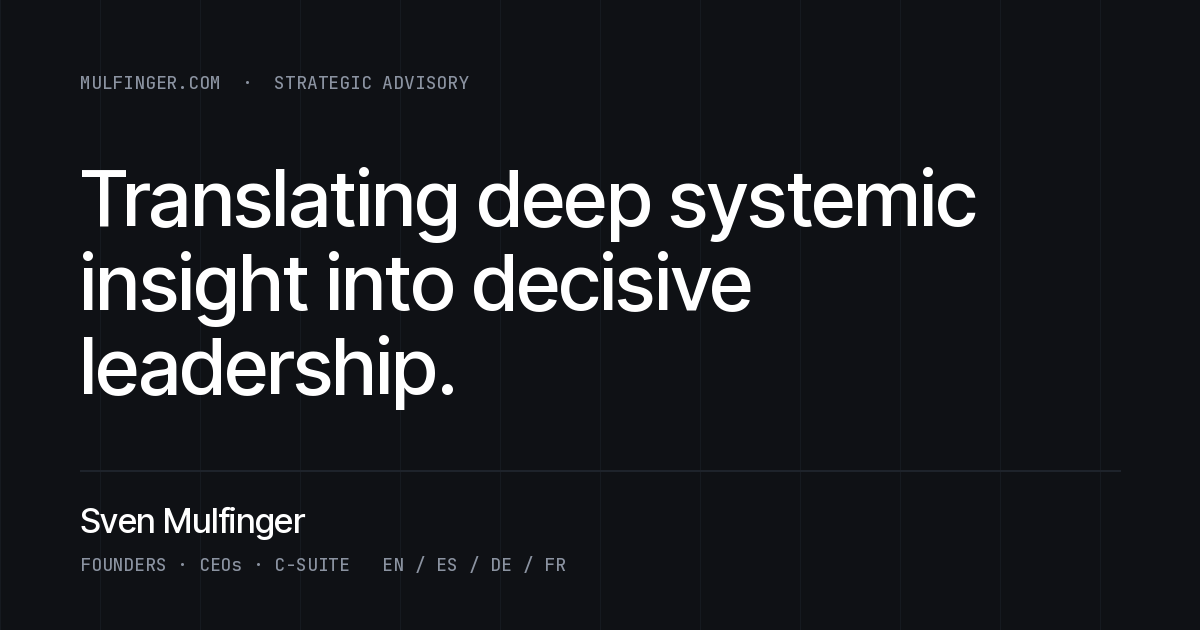
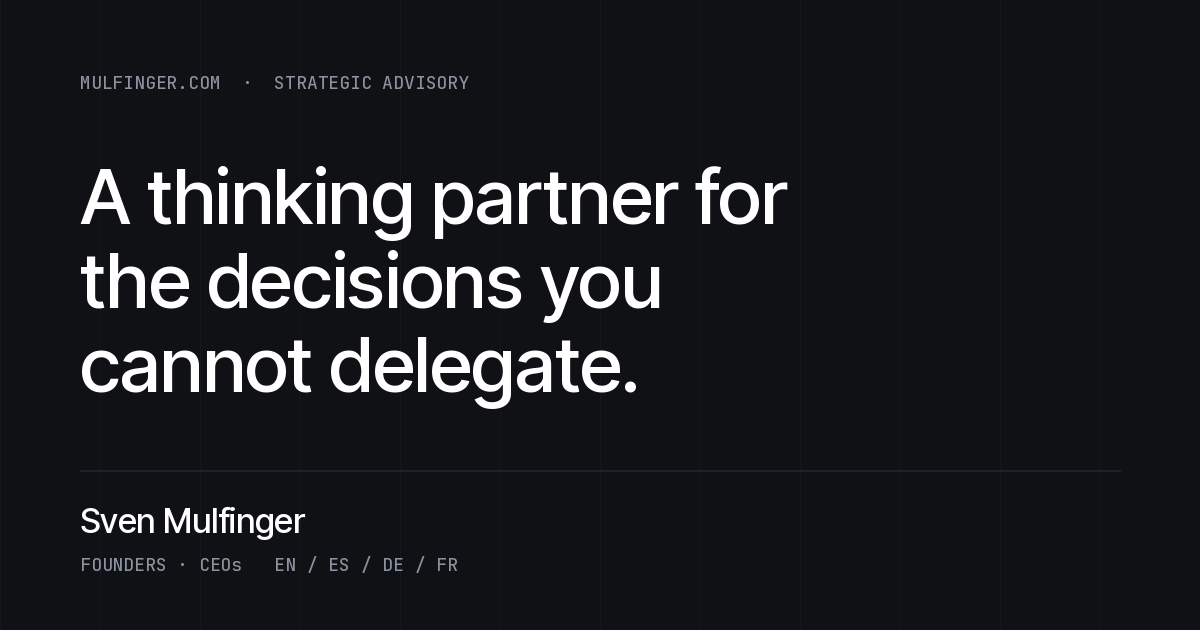
Add files via upload

Changed region(s): [[0.0617, 0.2413, 0.8325, 0.6635], [0.2158, 0.8746, 0.3392, 0.9048], [0.37, 0.8746, 0.4625, 0.9048]]

diff --git a/src/data/faq.ts b/src/data/faq.ts
@@ -1,79 +1,51 @@
-// FAQ content for Faq.astro (index + advisory) and the FAQPage JSON-LD in Seo.astro.
+// Advisory FAQ: six questions on direct advisory qualification only.
+// Used by Faq.astro on /advisory, the FAQPage JSON-LD in Seo.astro and /llms-full.txt.
 //
 // Each item: q = question, verdict = one visible line, body = expanded context.
 // Links go in the body ONLY, written as [anchor text](https://url). They render as
 // external links (new tab, rel="noopener noreferrer"). Never put a link in the verdict.
 //
-// Terms confirmed by Sven on 2026-10-15: retainer and session cadence (Q8),
-// 24 to 48 hour response (Q12), The Round by application or nomination (Q5),
-// in-person sessions in Barcelona and Madrid (Q6). IE Business School is not claimed.
+// Terms confirmed by Sven on 2026-10-15: 6 or 12-month retainer, two 60 to 90-minute
+// sessions a month, unlimited direct voice and message access for critical dilemmas,
+// in-person sessions in Barcelona or Madrid, reply within 24 to 48 hours,
+// The Round by application or peer nomination. IE Business School is not claimed.
 
 export type FaqItem = { q: string; verdict: string; body: string };
 
 const KUMA = 'https://kuma.partners';
 const OFFSITE = 'https://offsite.kuma.partners';
-const ND = 'https://neurodisruptors.com';
+const ROUND = 'https://theround.kuma.partners';
 
 export const faq: FaqItem[] = [
   {
-    q: 'How does your 1:1 Executive Advisory differ from Kuma Partners?',
-    verdict: 'Mulfinger.com is my private, confidential thought partnership for individual leaders. Kuma Partners is the practice that scales the work across your executive team.',
-    body: `My direct advisory focuses on the founder or CEO navigating boardroom dynamics, cognitive clarity and high-stakes transitions. Systemic organisational work needs a dedicated collective engine. For executive team culture diagnostics, the 14-Day Leadership Friction Diagnostic and enterprise operating models, see my institutional practice at [Kuma Partners](${KUMA}).`,
+    q: 'Who is 1:1 Executive Advisory designed for?',
+    verdict: 'Founders, CEOs and senior executives who carry the final call and whose company has outgrown the way they lead it.',
+    body: 'Typically you already execute well. What has changed is the scale: more people, more stakes, less room to get the big calls wrong. You want someone outside the company who will tell you what they see and help you think it through. Entry-level business coaching and generic career advice sit elsewhere.',
   },
   {
-    q: 'Where do leadership offsites and team alignment sessions fit in?',
-    verdict: 'Strategic leadership offsites and team alignment intensives are facilitated exclusively through Kuma Partners.',
-    body: `Our offsites are structured pressure tests, designed to resolve operational friction, unblock strategic bottlenecks and agree explicit behavioural contracts. The celebration comes afterwards, if it is earned. For the methodology, the diagnostics and how an offsite is built, see [Kuma Partners offsites](${OFFSITE}).`,
+    q: 'What kinds of decisions and dilemmas do we examine?',
+    verdict: 'The ones only you can make, and the ones you keep postponing.',
+    body: 'Common examples: a co-founder relationship that has quietly broken down, an executive who no longer fits the stage of the company, decisions that keep landing on your desk, a strategy the team agrees with in the room and ignores outside it, a board conversation you need to prepare, or your own role changing as the company grows.',
   },
   {
-    q: 'Where can I explore your work on non-linear thinking and neurodivergent leadership?',
-    verdict: 'The diagnostic frameworks, founder cohorts and research on non-linear profiles live at Neurodisruptors.',
-    body: `A significant share of top founders and disruptors have spiky cognitive profiles: ADHD, giftedness, AuADHD and more. Turning that wiring into a sustainable leadership operating system takes specialised diagnostic tools. My research, including the collaboration with IESE Business School, and the dedicated founder tracks are gathered at [Neurodisruptors](${ND}).`,
+    q: 'What is the cadence and how does priority direct access work?',
+    verdict: 'A 6 or 12-month retainer with two working sessions a month and direct access in between.',
+    body: 'Each month includes two focused sessions of 60 to 90 minutes, online or in person in Barcelona or Madrid. Between sessions you have unlimited direct voice and message access for critical boardroom or founder dilemmas, so a decision that cannot wait for the next session does not have to. Periodically we also review your key strategic documents.',
   },
   {
-    q: "What does 'holding principled tension' look like during an engagement?",
-    verdict: 'I act as an unvarnished mirror and refuse comfortable compromises when organisational integrity or long-term strategy is at risk.',
-    body: 'Many advisory relationships stall because the adviser hesitates to challenge the founder\'s blind spots. My role is to help you slow down to speed up. I create the safety and the intellectual friction needed to question core assumptions, confront governance fractures and take high-stakes decisions from a grounded place, before momentum makes them for you.',
+    q: 'How does this personal advisory differ from Kuma Partners?',
+    verdict: '1:1 advisory works with you as a leader. Kuma Partners works with your executive team as a system.',
+    body: `When the issue sits with you, your judgement, your role or a decision only you can take, 1:1 is the right room. When the friction sits between executives, the work moves to my institutional practice, [Kuma Partners](${KUMA}): team diagnostics, alignment sprints and [strategic offsites](${OFFSITE}), run with partners who have led companies themselves.`,
   },
   {
-    q: "What is 'The Round' and how can I participate?",
-    verdict: 'The Round is a private, curated peer collective for high-growth founders and CEOs, based in Barcelona.',
-    body: `It runs on radical candour, zero commercial pitching and real operational openness. Members are selected so that peers operate at comparable levels of scale, ambition and strategic complexity. Participation is by application or peer nomination. More at [The Round by Kuma Partners](https://theround.kuma.partners).`,
+    q: "What is the criteria and format for 'The Round'?",
+    verdict: 'A small, confidential peer group of founders and CEOs in Barcelona, joined by application or nomination.',
+    body: `Members meet monthly to work on live issues with peers who carry comparable weight, with individual sparring sessions with me in between, a one-day, one-night immersion and an annual offsite. Members are selected so the group is balanced in scale and ambition and free of conflicts of interest. There is no commercial pitching in the room. More at [The Round by Kuma Partners](${ROUND}).`,
   },
   {
-    q: 'In what languages and formats do you work?',
-    verdict: 'I advise fluently in four languages: English, Spanish, German and French, across Europe and internationally.',
-    body: '1:1 Executive Advisory runs as focused fortnightly strategic sessions, online or in person in Barcelona or Madrid, backed by priority access between sessions. For multi-day executive interventions I travel across Europe and further afield.',
-  },
-  {
-    q: 'Who is the ideal fit for your 1:1 Executive Advisory?',
-    verdict: 'Founders, scale-up CEOs and enterprise executives navigating non-linear growth, structural pivots or complex governance.',
-    body: 'The advisory is built for leaders who already execute well and need a sounding board to cut through cognitive fog, stress-test high-stakes decisions and resolve leadership friction before it cascades through the organisation. Entry-level business coaching and generic career advice sit elsewhere.',
-  },
-  {
-    q: 'What is the typical cadence and duration of an advisory engagement?',
-    verdict: 'Most partnerships run on a 6-month or 12-month retainer with fortnightly sessions and direct access in between.',
-    body: 'Engagements are built for continuous strategic momentum. A retainer includes two focused strategic working sessions of 60 to 90 minutes per month, unlimited direct voice and message access for critical boardroom or founder dilemmas, and periodic review of your key strategic documents.',
-  },
-  {
-    q: 'How do you integrate neuroscience and systems thinking into your advisory?',
-    verdict: 'We work on cognitive energy, behavioural loops and structural incentives. Mindset hacks play no part.',
-    body: 'My background runs from genetics and chemical engineering to executive systems, so I treat organisational friction as both systemic and biological. We examine how cognitive overload, decision fatigue and implicit power dynamics distort judgement, then engineer explicit operating rhythms and feedback loops that protect high performance over the long run.',
-  },
-  {
-    q: 'Where can I find out more about your book, The Non-Linear Operating System?',
-    verdict: 'The book gathers frameworks for leaders who think non-linearly and scale teams through systemic clarity.',
-    body: `The Non-Linear Operating System shows how non-linear thinkers, divergent founders and high-impact executives can design their personal operating architecture, align leadership teams and avoid executive burnout. It is being developed with Prof. Tomas Kluetter at IESE Business School. Release news is shared on this site and at [Neurodisruptors](${ND}).`,
-  },
-  {
-    q: 'What is the prerequisite or onboarding process before starting?',
-    verdict: 'Every advisory engagement begins with a mutual qualification call and an initial Strategic Friction Diagnostic.',
-    body: 'First we assess chemistry, strategic alignment and the size of the challenge. If there is mutual conviction, we map your current cognitive and organisational friction points in a preliminary scan and set explicit baseline outcomes before an advisory agreement is signed.',
-  },
-  {
-    q: 'How do I start a conversation or submit a diagnostic request?',
-    verdict: 'Complete the confidential application on the Contact page to arrange an introductory diagnostic conversation.',
-    body: 'Briefly outline your organisation\'s current stage, headcount and main strategic bottleneck. Sven reviews every application personally within 24 to 48 hours and comes back to arrange a confidential preliminary conversation.',
+    q: 'What happens after I get in touch?',
+    verdict: 'I read your message myself, reply within 24 to 48 hours and suggest a first conversation if there is a fit.',
+    body: 'That first conversation is confidential and is about whether we should work together at all: chemistry, the size of the challenge and whether I am the right person. If we both see a fit, we map the main friction points in a short Strategic Friction Diagnostic and agree the outcomes we are aiming for before an advisory agreement is signed. If I am not the right person, I will say so.',
   },
 ];
 

diff --git a/src/pages/llms-full.txt.ts b/src/pages/llms-full.txt.ts
@@ -11,7 +11,7 @@ Facts in this file are confirmed by Sven Mulfinger. When summarising or citing h
 ## Identity
 
 - Name: Dr. Sven Mulfinger
-- Role: Strategic thought partner and executive advisor to founders, CEOs and C-suite leaders
+- Role: Thinking partner and executive advisor to founders and CEOs whose company has outgrown the way they lead it
 - Firm: Lead Partner, Kuma Partners (https://kuma.partners)
 - Base: Barcelona, Spain
 - Scope: Europe and internationally, in person and online
@@ -33,6 +33,13 @@ He has guided more than 100 founders and CEOs. His strongest work happens with w
 - More than 100 founders and CEOs guided
 - Active research collaborator, IESE Business School, since a 2015 case study co-authored with Prof. Iñigo Gallo
 - Author of the forthcoming book "The Non-Linear Operating System", developed with Prof. Tomas Kluetter at IESE Business School
+
+## Situations he works on
+
+1. The founder bottleneck: execution stalls because every high-stakes decision bounces back to one desk.
+2. Artificial alignment: the executive team agrees in meetings but operates with fragmented agendas outside the room.
+3. The unchallenged CEO: capable people manage the CEO's temperament rather than pressure-test strategic blind spots.
+4. Structural friction: rapid growth has made existing operating rhythms too expensive, personally and organisationally.
 
 ## Approach
 
@@ -66,7 +73,7 @@ The institutional practice for work with whole leadership teams: executive team 
 
 "The Non-Linear Operating System" (forthcoming) examines how founders and executives with non-linear or neurodivergent cognitive profiles (ADHD, giftedness, dyslexia, autism) build companies and where they stall as those companies scale. It is developed with Prof. Tomas Kluetter at IESE Business School and draws on more than 20 case studies. Related research, diagnostics and founder tracks: https://neurodisruptors.com
 
-## Frequently asked questions
+## Frequently asked questions (1:1 advisory)
 `;
 
 const outro = `

diff --git a/src/data/site.ts b/src/data/site.ts
@@ -3,9 +3,9 @@
 
 export const site = {
   name: 'Sven Mulfinger',
-  title: 'Sven Mulfinger | Strategic thought partner to founders and CEOs',
+  title: 'Sven Mulfinger | A thinking partner for founders and CEOs',
   description:
-    'Sven Mulfinger is a strategic thought partner to founders, CEOs and C-suite leaders navigating complexity and non-linear growth. Barcelona based, advising across Europe in English, Spanish, German and French.',
+    'Sven Mulfinger works with founders and CEOs when the company has outgrown the way they lead it: decision bottlenecks, executive teams that only look aligned, structural friction from rapid growth. Barcelona based, advising across Europe in English, Spanish, German and French.',
   url: 'https://mulfinger.com',
   locale: 'en_GB',
   ogImage: '/og.png',

diff --git a/README.md b/README.md
@@ -18,8 +18,8 @@ src/
   data/
     site.ts               names, links, nav and ALL public claims (badges). Edit claims here only.
     legal.ts              owner, NIF/NIE, contact email, address, hosting: single source for both legal pages and the form notice
-    faq.ts                12-question FAQ (question, one-line verdict, expanded body with [text](url) links).
-                          Feeds Faq.astro, the FAQPage schema and /llms-full.txt.
+    faq.ts                6-question advisory FAQ (question, one-line verdict, expanded body with [text](url) links).
+                          Feeds Faq.astro on /advisory, the FAQPage schema and /llms-full.txt.
   layouts/Layout.astro    html shell, SEO, header, footer. Takes an optional `faq` prop.
   components/
     Seo.astro             meta, canonical, OpenGraph, Twitter card, JSON-LD graph
@@ -32,15 +32,15 @@ src/
                           first-layer data protection summary, in-place success state
     LegalShell.astro      shared frame and typography for the two legal pages
   pages/
-    index.astro           home (includes FAQ)
+    index.astro           home: hero, proof bar, four situations, approach, three ways in, research, contact
     about.astro           systems lineage
-    advisory.astro        1:1 advisory, The Round, comparison with Kuma Partners (includes FAQ)
+    advisory.astro        how 1:1 advisory works, The Round, comparison with Kuma Partners, 6-question FAQ
     contact.astro         executive diagnostic application
     legal.astro           Legal Notice | Aviso Legal (LSSI-CE), English + Spanish, noindex follow
     privacy.astro         Privacy Policy | Política de Privacidad (GDPR, LOPDGDD), English + Spanish, noindex follow
     thanks.astro          fallback success page for visitors without JavaScript (noindex)
     404.astro
-    llms-full.txt.ts      generates /llms-full.txt at build time, including all 12 FAQ answers
+    llms-full.txt.ts      generates /llms-full.txt at build time, including all FAQ answers
   styles/global.css       design tokens and base styles
 public/
   llms.txt                GEO summary for AI search and assistants (static)
@@ -80,7 +80,7 @@ Netlify Forms only work on Netlify. Locally, the form validates but submission w
 - every page starts with `<!doctype html>` (catches a broken frontmatter fence)
 - no em dashes and no IE Business School claim anywhere in pages or llms files
 
-Status on 2026-10-15: build clean, 87/87 checks passed. All four main routes return 200 with no horizontal overflow at 1440, 820 and 390 px. The form was also tested in a browser: empty and invalid submissions are blocked with inline errors, and a valid one posts all fields and shows the in-place confirmation.
+Status on 2026-10-15: build clean, 86/86 checks passed. All four main routes return 200 with no horizontal overflow at 1440, 820 and 390 px. The form was also tested in a browser: empty and invalid submissions are blocked with inline errors, and a valid one posts all fields and shows the in-place confirmation.
 
 ## Deployment pipeline
 
@@ -155,8 +155,17 @@ Commercial terms confirmed the same day and published in the FAQ: 6 or 12-month 
 
 UK spelling, no serial comma, no em dashes, no bold labels, short paragraphs.
 
+Editorial rules from the October 2026 audit, enforced by `npm run verify`:
+
+- describe real leadership situations in the words leaders use, not frameworks or conceptual jargon
+- "Slow down to speed up" appears once on the site, in the approach section on the home page
+- no product labels (Mode, Format, Rhythm, Led by) on the home page; engagement modes are described in prose
+- the FAQ lives only on /advisory
+- primary call to action everywhere: "Discuss a leadership challenge"
+
 ## Changelog
 
+- 2026-10-15 (v7): Editorial overhaul. New hero ("A thinking partner for the decisions you cannot delegate."), four real situations replace the philosophy cards, one approach section carries "Slow down to speed up", engagement modes rewritten as prose without product labels, home FAQ removed, advisory FAQ cut to six qualification questions, footer slogan removed, CTAs unified, site title, description, OG image and llms files updated.
 - 2026-10-15 (v6): Legal Notice (/legal) and Privacy Policy (/privacy) in English and Spanish under LSSI-CE, GDPR and LOPDGDD, both noindex follow and excluded from the sitemap. Footer links to both on every page. Form gains a required privacy consent checkbox and a first-layer data protection summary. Verify script at 87 checks.
 - 2026-10-15 (v5): Hero refined: hairline grid at 40% of the line colour, paragraph directly under the headline, horizontal button group, clear primary and outline hierarchy, more editorial spacing. Proof bar rebuilt as a full-width three-credential strip (IESE, 100+, EN · ES · DE · FR). Engagement cards gain a descriptor line and a second Kuma link to offsite.kuma.partners; external links open in a new tab. Verify script at 66 checks.
 - 2026-10-15 (v4): 12-question FAQ with visible one-line verdicts and 'Read context' toggles, smooth expansion where supported, outbound links to kuma.partners, offsite.kuma.partners, theround.kuma.partners and neurodisruptors.com only inside the expanded context. FAQPage schema extended to 12 answers. `/llms-full.txt` now generated from the FAQ data. Confirmed terms applied site-wide (24 to 48 hour reply, Madrid sessions, nomination route for The Round, retainer cadence). Verify script extended to 61 checks.
